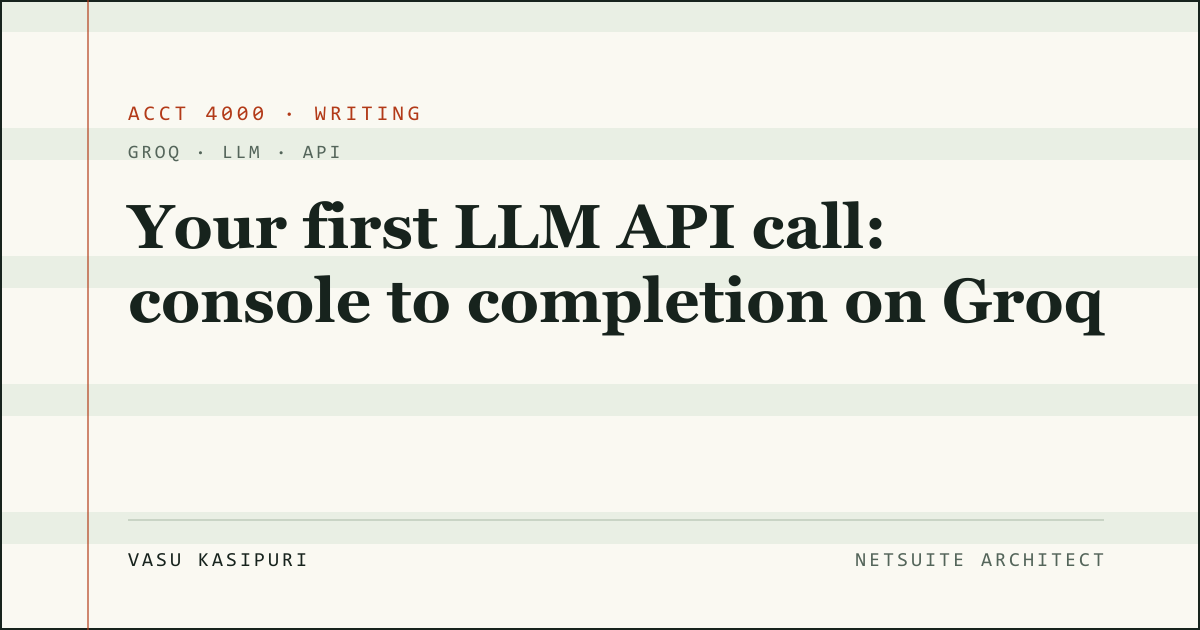
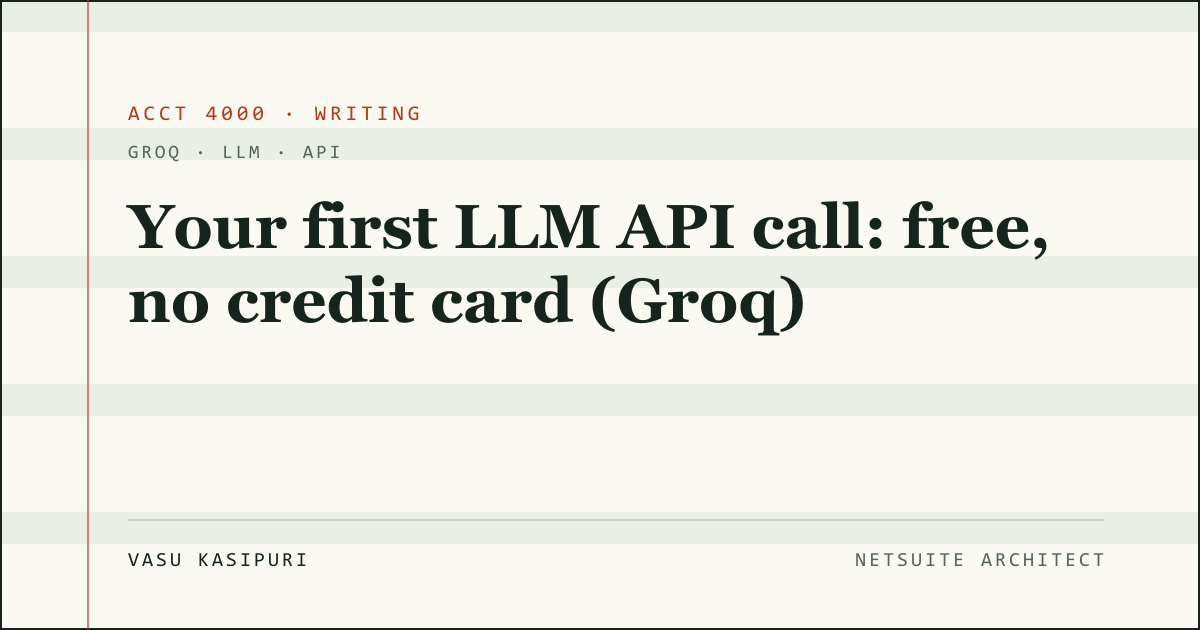
feat: rebuild Groq first-call post as SEO beginner tutorial
New title, meta description, and full body rewrite targeting
'LLM API call' and 'Groq API call' queries: numbered steps,
Grok vs Groq disambiguation, .env key handling, sample JSON
response, model-switch and troubleshooting sections. Banner
regenerated with the new title.

Claude-Session: https://claude.ai/code/session_01Ahnynjxvzvw1Kyge2mZu7n

Changed region(s): [[0.0925, 0.4222, 0.925, 0.5429], [0.74, 0.3016, 0.8942, 0.3921]]

diff --git a/content/posts.ts b/content/posts.ts
@@ -19,96 +19,200 @@ export const posts: Post[] = [
   {
     id: "post_groq_first_call",
     slug: "first-llm-api-call-groq",
-    title: "Your first LLM API call: console to completion on Groq",
+    title: "Your first LLM API call: free, no credit card (Groq)",
     summary:
-      "Making your first LLM API call? Console to key to a working chat completion in about twenty minutes on Groq's free tier, and why the usage object is the only part of the response worth bookmarking.",
-    body: `Groq's pitch is speed: OpenAI-compatible inference served fast enough that you stop thinking about latency. That makes it the console I'd point anyone at for their first LLM API call: the free tier is real, the API shape is the one every SDK already speaks, and the distance from "signed up" to "working chat completion" is about twenty minutes. Here's the whole walk, screenshot by screenshot.
+      "Make your first LLM API call in about ten minutes with Groq's free tier. No credit card needed. Step by step with curl and Python, plus common errors.",
+    body: `Everyone talks about AI. Very few people have actually made an LLM API call from their own code. That first call is a small moment, but it changes how you see all of this. The model stops being a chat window and becomes a building block you can use anywhere.
 
-## The console
+This guide walks you through your first LLM API call in about ten minutes, free, with no credit card. All you need is an email address. Python helps for the second half, but even that is optional.
 
-Signing up lands you in a console that gets to the point: a playground, docs, and a token-usage panel that starts counting from your first request. The usage chart is the part I appreciate: spend is visible from day one, not at invoice time.
+One thing to clear up before we start, because the names trip everyone up. **Groq is not Grok.** Grok is the chatbot from xAI. Groq is a company that runs open AI models on chips built for speed. Similar names, completely different things.
 
-![The Groq console after signing in: playground, docs, and a token-usage panel from day one](/images/blog/groq-first-call/01-console.png "=1600x714")
+Here is the plan:
 
-## One key, shown once
+1. Create a free Groq account
+2. Generate an API key
+3. Make your first LLM API call with curl
+4. Make the same call from Python
+5. Try other models
 
-API keys live under their own tab, and a fresh account has none.
+## Why Groq for your first LLM API call
 
-![The API Keys page before any keys exist](/images/blog/groq-first-call/02-apikeys.png "=1482x362")
+Three reasons, and price is only the first. Groq's free tier is a standing offer, not a trial. There is no card on file and no countdown clock, so nothing can surprise you later.
 
-Creating one asks for a display name and an expiration. Name keys for the thing that uses them. Once there are twelve of these, "test-key-2" is how leaks go unnoticed.
+Speed is the second. Groq builds its own inference chips, and answers come back fast enough that the whole loop feels alive. For a first call, that instant feedback matters more than you would think.
 
-![Creating an API key: display name and expiration](/images/blog/groq-first-call/03-createkey.png "=907x560")
+The third reason pays off the longest. Groq's API copies OpenAI's request format, and so does much of the industry. Everything you learn here transfers almost anywhere you go next.
 
-The key is displayed exactly once. Copy it into your shell's environment and close the dialog. It never belongs in a file, a repo, or a screenshot. The one below is blank on purpose: any key that has been on a screen should be treated as burned and regenerated.
+## Step 1: create your free Groq account
 
-![The created key, shown exactly once and redacted here](/images/blog/groq-first-call/04-key-created.png "=1600x841")
+Go to [console.groq.com](https://console.groq.com) and sign in with your Google account or an email address. There is no payment step. No card, no trial countdown, nothing to cancel later.
 
-\`\`\`bash
-export GROQ_API_KEY="gsk_..."   # PowerShell: $env:GROQ_API_KEY = "gsk_..."
-\`\`\`
+After signing in, you land in the Groq console. This is home base. The playground lets you chat with models right in the browser, and the usage panel starts counting tokens from your very first request.
 
-## The call itself
+![The Groq console after signing in: playground, docs, and a token usage panel from day one](/images/blog/groq-first-call/01-console.png "=1600x714")
 
-The endpoint is OpenAI-compatible, so the first call is one curl:
+## Step 2: create your API key
+
+An API key is a password for your code. It tells Groq that a request came from you and counts the usage against your account.
+
+In the console, open the **API Keys** tab. A fresh account has none.
+
+![The API Keys page in the Groq console before any keys exist](/images/blog/groq-first-call/02-apikeys.png "=1482x362")
+
+Click **Create API Key** and give it a name you will recognize later, something like \`my-first-key\`. Name keys for the thing that uses them. Once there are twelve of these, \`test-key-2\` is how leaks go unnoticed.
+
+![Creating a Groq API key: display name and expiration](/images/blog/groq-first-call/03-createkey.png "=907x560")
+
+Copy the key the moment it appears. Groq shows it in full exactly once. Paste it somewhere safe for now.
+
+![The created Groq API key, shown exactly once and redacted here](/images/blog/groq-first-call/04-key-created.png "=1600x841")
+
+Two rules about keys, and I mean both of them:
+
+1. Never paste a key directly into a code file.
+2. Never commit a key to Git. If a key ever lands in a repository, treat it as leaked. Delete it in the console and create a new one.
+
+We will handle the key the safe way in step 4.
+
+## Step 3: your first LLM API call with curl
+
+curl is a small tool for making web requests from your terminal. It is already installed on Mac and Linux. On Windows, the smoothest option is Git Bash, which comes free with Git. PowerShell treats curl a little differently, so Git Bash saves you a headache.
+
+Replace \`YOUR_KEY_HERE\` with your key and run this. Typing the key in your own terminal for a one-time test is fine; the no-key rule from step 2 is about code files.
 
 \`\`\`bash
 curl https://api.groq.com/openai/v1/chat/completions \\
-  -H "Authorization: Bearer $GROQ_API_KEY" \\
   -H "Content-Type: application/json" \\
+  -H "Authorization: Bearer YOUR_KEY_HERE" \\
   -d '{
     "model": "llama-3.3-70b-versatile",
-    "messages": [{"role": "user", "content": "Say hello in exactly five words."}]
+    "messages": [
+      { "role": "user", "content": "Explain what an API is in one short sentence." }
+    ]
   }'
 \`\`\`
 
-Same call in Python with the official SDK (\`pip install groq\`):
+A wall of JSON comes back in about a second. That wall is your first AI response over an API. Trimmed to the parts that matter, it looks like this:
+
+\`\`\`json
+{
+  "model": "llama-3.3-70b-versatile",
+  "choices": [
+    {
+      "message": {
+        "role": "assistant",
+        "content": "An API is a set of rules that lets one program request data or actions from another program."
+      },
+      "finish_reason": "stop"
+    }
+  ],
+  "usage": {
+    "prompt_tokens": 46,
+    "completion_tokens": 20,
+    "total_tokens": 66
+  }
+}
+\`\`\`
+
+The answer lives in \`choices[0].message.content\`. Everything else is packaging: the model name, timing, token counts. One piece of that packaging deserves a bookmark, though. The \`usage\` block counts the tokens you spent. Tokens are the unit every [LLM cost model](/blog/real-cost-of-llms-in-production/) is built on, and these numbers roll up into the usage chart from step 1.
+
+Two parts of the request will follow you everywhere:
+
+- \`model\` picks which AI answers you.
+- \`messages\` is the conversation so far. Each message has a \`role\` (you are the \`user\`) and \`content\` (what you said).
+
+That is the whole shape of a chat completion. Groq copied OpenAI's format on purpose, so this exact structure will greet you at almost every LLM API you touch next.
+
+## Step 4: the same call from Python
+
+The terminal is fine for a test. Real projects live in code. Install two small packages (Python 3.8 or newer):
+
+\`\`\`bash
+pip install groq python-dotenv
+\`\`\`
+
+Create a file named \`.env\` in your project folder. This file holds your key so your code does not have to:
+
+\`\`\`
+GROQ_API_KEY=your_key_here
+\`\`\`
+
+If you use Git, add \`.env\` to your \`.gitignore\` right now, before you forget.
+
+Then create \`first_call.py\`:
 
 \`\`\`python
-import os
-
+from dotenv import load_dotenv
 from groq import Groq
 
-client = Groq(api_key=os.environ["GROQ_API_KEY"])
+load_dotenv()
+
+client = Groq()
 
 response = client.chat.completions.create(
     model="llama-3.3-70b-versatile",
     messages=[
-        {
-            "role": "user",
-            "content": "One sentence: why does every finance team "
-            "ask an ERP for invoice aging first?",
-        }
+        {"role": "user", "content": "Explain what an API is in one short sentence."}
     ],
 )
 
 print(response.choices[0].message.content)
-print(response.usage)
 \`\`\`
 
-Two parts of the response deserve more attention than the answer text. \`choices[0].message.content\` is the reply; \`usage\` is the ledger line: prompt tokens, completion tokens, total. If you make one API call in your life, still print \`usage\`: it is the unit of account every [cost model](/blog/real-cost-of-llms-in-production/) is built on, and the numbers roll up into that console usage chart above.
+Run it:
 
-If the model name has moved on by the time you read this, ask the API instead of a tutorial:
+\`\`\`bash
+python first_call.py
+\`\`\`
+
+\`\`\`
+An API is a set of rules that lets two programs talk to each other.
+\`\`\`
+
+Notice what you did not do. You never typed the key into the script. \`load_dotenv\` reads the \`.env\` file, and the Groq client finds \`GROQ_API_KEY\` on its own. This is the habit that keeps keys out of leaked repositories, and now you have it from day one.
+
+## Step 5: try other models
+
+One key opens every model Groq hosts: Llama models, OpenAI's open weight gpt-oss models, and more. Switching means changing one line:
+
+\`\`\`python
+model="openai/gpt-oss-120b",
+\`\`\`
+
+Model names retire as new versions arrive, so trust the console's **Models** page over any blog post, including this one. You can also ask the API itself for the current list:
 
 \`\`\`bash
 curl -s https://api.groq.com/openai/v1/models \\
-  -H "Authorization: Bearer $GROQ_API_KEY"
+  -H "Authorization: Bearer YOUR_KEY_HERE"
 \`\`\`
 
-## What this actually sets up
+## When the call does not work
 
-The twenty minutes were the easy 80%. A working key and a chat completion is not an AI system. It's a socket. Everything that makes it production-grade happens around this call: guardrails on what it's allowed to touch, observability on what it did, and a cost model that treats \`usage\` as a line item instead of a surprise. That's the 20% the rest of this ledger is about.`,
+Three errors cover almost every first-day problem with a Groq API call:
+
+- **401 Unauthorized** means the key is wrong or missing. Check for extra spaces from when you pasted it.
+- **429 Too Many Requests** means you are sending requests faster than the free tier allows. Wait a minute and try again.
+- **Model not found** means the model name has been retired. Check the Models page and update that one line.
+
+## What you just unlocked
+
+You created a key, made a raw LLM API call from the terminal, and then made the same call from Python without ever exposing that key. This is the foundation under every AI feature you have used. Chatbots, summarizers, agents: all of them start with this exact request and response.
+
+From here you can play with settings like \`temperature\`, feed the model your own data, or wire it into the software you already run at work. That last one is where this blog is headed, starting with [calling an LLM from inside an ERP](/blog/ai-agents-netsuite-mcp/).
+
+If you got your first response today, that is a win. Save the script. You will build on it.`,
     tags: ["Groq", "LLM", "API"],
     status: "published",
     banner: {
       src: "/blog/banners/first-llm-api-call-groq.png",
-      alt: "Your first LLM API call: console to completion on Groq",
+      alt: "Your first LLM API call: free, no credit card (Groq)",
       width: 1200,
       height: 630,
     },
     publishedAt: "2026-07-12T00:00:00.000Z",
     createdAt: "2026-07-12T00:00:00.000Z",
-    updatedAt: "2026-07-12T00:00:00.000Z",
+    updatedAt: "2026-07-17T00:00:00.000Z",
   },
   {
     id: "post_rag_internals",